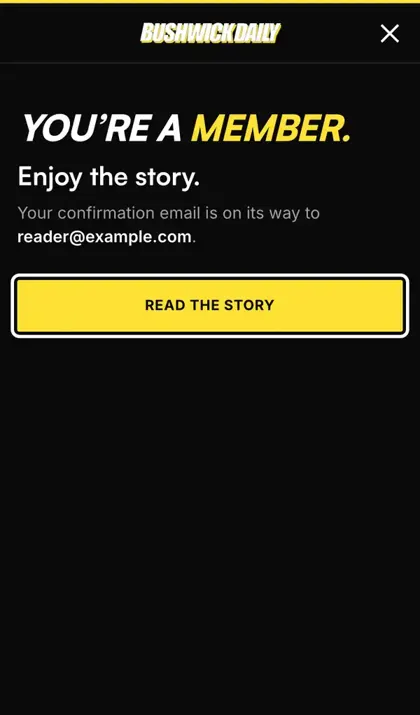
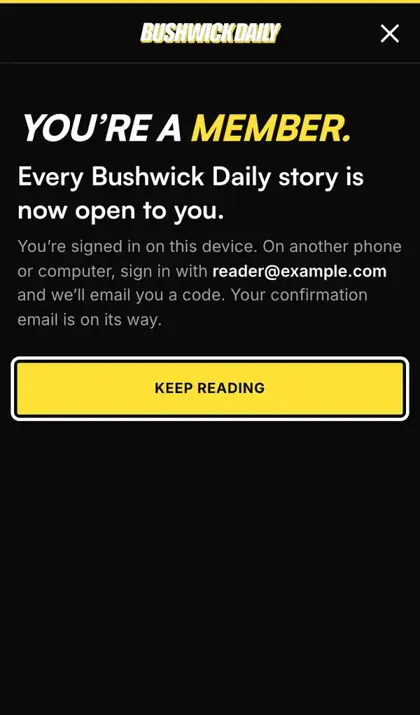
Membership is site access: success screen and titles

Changed region(s): [[0.0, 0.2154, 0.9905, 0.6154]]

diff --git a/design/competitor-comparison.html b/design/competitor-comparison.html
@@ -1,5 +1,5 @@
 <!doctype html><html lang=en><head><meta charset=utf-8><meta name=viewport content="width=device-width,initial-scale=1"><meta name="robots" content="noindex,nofollow"><title>Paywall flow comparison</title>
 <style>:root{--bg:#0a0a0a;--fg:#ededed;--muted:#a3a3a3;--y:#ffe135;--line:#2a2a2a}body{margin:0;background:var(--bg);color:var(--fg);font:16px/1.55 Inter,-apple-system,Helvetica,Arial,sans-serif}main{max-width:1240px;margin:0 auto;padding:24px 16px 64px}h1{font-size:28px;margin:0 0 6px}.lede{color:var(--muted);margin:0 0 28px}.stage{border-top:1px solid var(--line);padding:22px 0}h2{font-size:20px;margin:0 0 14px;color:var(--y)}h3{font-size:13px;letter-spacing:.06em;text-transform:uppercase;color:var(--muted);margin:0 0 10px}.cols{display:grid;grid-template-columns:1fr 1fr 1.1fr;gap:20px}.col figure{margin:0 0 14px}.col img{width:100%;max-width:300px;border:1px solid var(--line);border-radius:6px;display:block}figcaption,.note{font-size:14px;color:var(--muted);margin:6px 0 0;max-width:300px}.bd p{background:#151515;border-left:3px solid var(--y);padding:12px 14px;margin:0;border-radius:4px}.bd b,figcaption b,.note b{color:var(--fg)}a{color:var(--y)}@media(max-width:860px){.cols{grid-template-columns:1fr}.col img{max-width:260px}}</style></head>
-<body><main><h1>Paying for a story: Hell Gate, 404 Media, and what Bushwick Daily will do</h1>
+<body><main><h1>Becoming a member: Hell Gate, 404 Media, and what Bushwick Daily will do</h1>
 <p class=lede>Phone screenshots, 2026-10-13. Hell Gate signed in as a free member (owner’s account); 404 Media with an email that has no account; anonymous captures for everything else. Each caption quotes the screen. Full evidence: research reports 27 and 28 in the repo. The Bushwick Daily column shows the approved design mockups (iPhone 13). They are being built into the site now, for review on a private preview link.</p>
-<section class=stage><h2>1. The gate in the article</h2><div class=cols><div class=col><h3>Hell Gate</h3><figure><a href="img/compare/hg-1-gate.webp"><img loading="lazy" src="img/compare/hg-1-gate.webp" alt=""></a><figcaption>“SUBSCRIBE TO READ THE FULL STORY. Become a paid subscriber to Hell Gate to access all of our posts.” [Subscribe]</figcaption></figure><figure><a href="img/compare/hg-1-gate-outpost.webp"><img loading="lazy" src="img/compare/hg-1-gate-outpost.webp" alt=""></a><figcaption>A separate slide-up covers 71% of the phone screen at the gate, hiding the gate’s own button.</figcaption></figure></div><div class=col><h3>404 Media</h3><figure><a href="img/compare/404-1-gate.webp"><img loading="lazy" src="img/compare/404-1-gate.webp" alt=""></a><figcaption>“This post is for paid members only. Become a paid member for unlimited ad-free access…” [SUBSCRIBE] · “Already have an account? Sign in”. A fixed ad covers the bottom 17%.</figcaption></figure></div><div class='col bd'><h3>Bushwick Daily (proposed)</h3><figure><a href="img/compare/bd-1-gate.webp"><img loading="lazy" src="img/compare/bd-1-gate.webp" alt=""></a><figcaption>On landing: the free opening, then one card: email, newsletter box, Continue. Nothing covers the article.</figcaption></figure><p><b>Keep:</b> the article’s free opening, then one clear box. <b>Fix:</b> one gate only (no slide-up competing with it, no ad over it). Our box asks for the email (plus the newsletter box) and Continue.</p></div></div></section><section class=stage><h2>2. The first tap</h2><div class=cols><div class=col><h3>Hell Gate</h3><figure><a href="img/compare/hg-2-signin-newtab.webp"><img loading="lazy" src="img/compare/hg-2-signin-newtab.webp" alt=""></a><figcaption>Subscribe opens a <b>new tab</b> on a full-screen “Sign in” sheet. Plans need another tap (“Sign up”).</figcaption></figure></div><div class=col><h3>404 Media</h3><figure><a href="img/compare/404-2-membership-page.webp"><img loading="lazy" src="img/compare/404-2-membership-page.webp" alt=""></a><figcaption>SUBSCRIBE <b>leaves the article</b> for a /membership/ page.</figcaption></figure><figure><a href="img/compare/404-2-signin-sheet.webp"><img loading="lazy" src="img/compare/404-2-signin-sheet.webp" alt=""></a><figcaption>“Sign in” opens a full-screen sheet over the article.</figcaption></figure></div><div class='col bd'><h3>Bushwick Daily (proposed)</h3><figure><a href="img/compare/bd-2-code-sheet.webp"><img loading="lazy" src="img/compare/bd-2-code-sheet.webp" alt=""></a><figcaption>After Continue, a member gets the code step, full screen, same tab.</figcaption></figure><figure><a href="img/compare/bd-2-plans-sheet.webp"><img loading="lazy" src="img/compare/bd-2-plans-sheet.webp" alt=""></a><figcaption>Everyone else goes straight to the plans, with Monthly selected.</figcaption></figure><p><b>Keep:</b> a full-screen sheet on the phone. <b>Fix:</b> same tab, same article; the sheet opens directly on the right step (code for members, plans for everyone else).</p></div></div></section><section class=stage><h2>3. Telling a signed-in reader where they stand</h2><div class=cols><div class=col><h3>Hell Gate</h3><figure><a href="img/compare/hg-3-account-free.webp"><img loading="lazy" src="img/compare/hg-3-account-free.webp" alt=""></a><figcaption>“You currently have a free membership, upgrade to a paid subscription for full access.” [View plans]. The owner read “free membership” as “I get some free articles.”</figcaption></figure></div><div class=col><h3>404 Media</h3><figure><a href="img/compare/404-3-check-email-no-account.webp"><img loading="lazy" src="img/compare/404-3-check-email-no-account.webp" alt=""></a><figcaption>For an email with no account: “Now check your email! If you have an account, an email has been sent…”, and no email ever comes.</figcaption></figure></div><div class='col bd'><h3>Bushwick Daily (proposed)</h3><figure><a href="img/compare/bd-3-signed-in-card.webp"><img loading="lazy" src="img/compare/bd-3-signed-in-card.webp" alt=""></a><figcaption>Signed in, no membership: the card says so plainly, with See plans.</figcaption></figure><figure><a href="img/compare/bd-3-signed-in-sheet.webp"><img loading="lazy" src="img/compare/bd-3-signed-in-sheet.webp" alt=""></a><figcaption>See plans opens the sheet with the same message.</figcaption></figure><p><b>Fix both:</b> the sheet says <b>“You’re out of free articles.”</b> “You’re signed in as {email}. A membership unlocks this story and every other one: $6.99 a month or $70 a year.” A new email goes straight to the plans; we never say “check your email” when nothing is coming.</p></div></div></section><section class=stage><h2>4. Choosing a plan</h2><div class=cols><div class=col><h3>Hell Gate</h3><figure><a href="img/compare/hg-4-plans.webp"><img loading="lazy" src="img/compare/hg-4-plans.webp" alt=""></a><figcaption>Full screen: Monthly / “Yearly (save 17%)” switch, three tier cards with benefit lists, one [Choose] each.</figcaption></figure></div><div class=col><h3>404 Media</h3><figure><a href="img/compare/404-4-plans-sheet.webp"><img loading="lazy" src="img/compare/404-4-plans-sheet.webp" alt=""></a><figcaption>Full-screen sheet (from Sign in → Sign up): Name, Email, Monthly / Yearly switch, Free / Supporter / Superfan cards.</figcaption></figure></div><div class='col bd'><h3>Bushwick Daily (proposed)</h3><figure><a href="img/compare/bd-4-plans-yearly.webp"><img loading="lazy" src="img/compare/bd-4-plans-yearly.webp" alt=""></a><figcaption>Shown after the reader taps Yearly (the sheet always opens on Monthly). The chosen option has a yellow outline, so Continue, pinned at the bottom, is the only yellow button. “Save $13.88”, what it includes.</figcaption></figure><p><b>Keep:</b> full screen, the Monthly/Yearly switch, a short list of what you get, one button. <b>Fix:</b> one plan (no tier maze), savings as money (“Yearly saves $13.88”), the price matches the headline. Monthly comes selected (both sites preselect Yearly), and the selected option never looks like the button.</p></div></div></section><section class=stage><h2>5. Paying</h2><div class=cols><div class=col><h3>Hell Gate</h3><figure><a href="img/compare/hg-5-stripe-checkout.webp"><img loading="lazy" src="img/compare/hg-5-stripe-checkout.webp" alt=""></a><figcaption>“Choose” <b>leaves Hell Gate</b> for Stripe’s hosted checkout: Apple Pay, email, card form, Subscribe.</figcaption></figure></div><div class=col><h3>404 Media</h3><p class=note>“SUBSCRIBE NOW” goes straight to Stripe’s hosted checkout with no email step. Stripe’s saved-card feature pre-filled a saved card, so one tap would have charged. (Screenshot withheld: it shows a payment card.)</p></div><div class='col bd'><h3>Bushwick Daily (proposed)</h3><figure><a href="img/compare/bd-5-payment.webp"><img loading="lazy" src="img/compare/bd-5-payment.webp" alt=""></a><figcaption>Payment inside the sheet: the price and the reader’s address at the top, then the consent box with the required disclosure, all of it on the first iPhone 13 screen. Apple Pay is 76 px of scrolling below it (it was 171), or the card form.</figcaption></figure><figure><a href="img/compare/bd-5-success.webp"><img loading="lazy" src="img/compare/bd-5-success.webp" alt=""></a><figcaption>“You’re a member. Enjoy the story.” Read the story closes the sheet; the article unlocks where they were.</figcaption></figure><p><b>Fix:</b> the reader never leaves the article. Payment happens inside the sheet, in this order: price and address, the consent box with the legal disclosure, the black Apple Pay button, “Pay with card”, Subscribe. On success the sheet closes and the story unlocks where they were.</p></div></div></section><section class=stage><h2>6. Getting out</h2><div class=cols><div class=col><h3>Hell Gate</h3><p class=note>Phone: only the X closes it. Escape does nothing on the phone, and the phone’s Back button never closes the sheet (it does nothing in the new tab, or leaves the article). Desktop: Escape works.</p></div><div class=col><h3>404 Media</h3><p class=note>Same as Hell Gate (same Ghost Portal 2.72.3). Back from the Sign in sheet <b>left the article</b>.</p></div><div class='col bd'><h3>Bushwick Daily (proposed)</h3><p><b>Fix:</b> X, Escape (phone and desktop) and the phone’s Back button all close the sheet and return to the same spot in the article. The page behind can’t scroll while the sheet is open (both sites do this; we keep it).</p></div></div></section></main></body></html>
+<section class=stage><h2>1. The gate in the article</h2><div class=cols><div class=col><h3>Hell Gate</h3><figure><a href="img/compare/hg-1-gate.webp"><img loading="lazy" src="img/compare/hg-1-gate.webp" alt=""></a><figcaption>“SUBSCRIBE TO READ THE FULL STORY. Become a paid subscriber to Hell Gate to access all of our posts.” [Subscribe]</figcaption></figure><figure><a href="img/compare/hg-1-gate-outpost.webp"><img loading="lazy" src="img/compare/hg-1-gate-outpost.webp" alt=""></a><figcaption>A separate slide-up covers 71% of the phone screen at the gate, hiding the gate’s own button.</figcaption></figure></div><div class=col><h3>404 Media</h3><figure><a href="img/compare/404-1-gate.webp"><img loading="lazy" src="img/compare/404-1-gate.webp" alt=""></a><figcaption>“This post is for paid members only. Become a paid member for unlimited ad-free access…” [SUBSCRIBE] · “Already have an account? Sign in”. A fixed ad covers the bottom 17%.</figcaption></figure></div><div class='col bd'><h3>Bushwick Daily (proposed)</h3><figure><a href="img/compare/bd-1-gate.webp"><img loading="lazy" src="img/compare/bd-1-gate.webp" alt=""></a><figcaption>On landing: the free opening, then one card: email, newsletter box, Continue. Nothing covers the article.</figcaption></figure><p><b>Keep:</b> the article’s free opening, then one clear box. <b>Fix:</b> one gate only (no slide-up competing with it, no ad over it). Our box asks for the email (plus the newsletter box) and Continue.</p></div></div></section><section class=stage><h2>2. The first tap</h2><div class=cols><div class=col><h3>Hell Gate</h3><figure><a href="img/compare/hg-2-signin-newtab.webp"><img loading="lazy" src="img/compare/hg-2-signin-newtab.webp" alt=""></a><figcaption>Subscribe opens a <b>new tab</b> on a full-screen “Sign in” sheet. Plans need another tap (“Sign up”).</figcaption></figure></div><div class=col><h3>404 Media</h3><figure><a href="img/compare/404-2-membership-page.webp"><img loading="lazy" src="img/compare/404-2-membership-page.webp" alt=""></a><figcaption>SUBSCRIBE <b>leaves the article</b> for a /membership/ page.</figcaption></figure><figure><a href="img/compare/404-2-signin-sheet.webp"><img loading="lazy" src="img/compare/404-2-signin-sheet.webp" alt=""></a><figcaption>“Sign in” opens a full-screen sheet over the article.</figcaption></figure></div><div class='col bd'><h3>Bushwick Daily (proposed)</h3><figure><a href="img/compare/bd-2-code-sheet.webp"><img loading="lazy" src="img/compare/bd-2-code-sheet.webp" alt=""></a><figcaption>After Continue, a member gets the code step, full screen, same tab.</figcaption></figure><figure><a href="img/compare/bd-2-plans-sheet.webp"><img loading="lazy" src="img/compare/bd-2-plans-sheet.webp" alt=""></a><figcaption>Everyone else goes straight to the plans, with Monthly selected.</figcaption></figure><p><b>Keep:</b> a full-screen sheet on the phone. <b>Fix:</b> same tab, same article; the sheet opens directly on the right step (code for members, plans for everyone else).</p></div></div></section><section class=stage><h2>3. Telling a signed-in reader where they stand</h2><div class=cols><div class=col><h3>Hell Gate</h3><figure><a href="img/compare/hg-3-account-free.webp"><img loading="lazy" src="img/compare/hg-3-account-free.webp" alt=""></a><figcaption>“You currently have a free membership, upgrade to a paid subscription for full access.” [View plans]. The owner read “free membership” as “I get some free articles.”</figcaption></figure></div><div class=col><h3>404 Media</h3><figure><a href="img/compare/404-3-check-email-no-account.webp"><img loading="lazy" src="img/compare/404-3-check-email-no-account.webp" alt=""></a><figcaption>For an email with no account: “Now check your email! If you have an account, an email has been sent…”, and no email ever comes.</figcaption></figure></div><div class='col bd'><h3>Bushwick Daily (proposed)</h3><figure><a href="img/compare/bd-3-signed-in-card.webp"><img loading="lazy" src="img/compare/bd-3-signed-in-card.webp" alt=""></a><figcaption>Signed in, no membership: the card says so plainly, with See plans.</figcaption></figure><figure><a href="img/compare/bd-3-signed-in-sheet.webp"><img loading="lazy" src="img/compare/bd-3-signed-in-sheet.webp" alt=""></a><figcaption>See plans opens the sheet with the same message.</figcaption></figure><p><b>Fix both:</b> the sheet says <b>“You’re out of free articles.”</b> “You’re signed in as {email}. A membership unlocks this story and every other one: $6.99 a month or $70 a year.” A new email goes straight to the plans; we never say “check your email” when nothing is coming.</p></div></div></section><section class=stage><h2>4. Choosing a plan</h2><div class=cols><div class=col><h3>Hell Gate</h3><figure><a href="img/compare/hg-4-plans.webp"><img loading="lazy" src="img/compare/hg-4-plans.webp" alt=""></a><figcaption>Full screen: Monthly / “Yearly (save 17%)” switch, three tier cards with benefit lists, one [Choose] each.</figcaption></figure></div><div class=col><h3>404 Media</h3><figure><a href="img/compare/404-4-plans-sheet.webp"><img loading="lazy" src="img/compare/404-4-plans-sheet.webp" alt=""></a><figcaption>Full-screen sheet (from Sign in → Sign up): Name, Email, Monthly / Yearly switch, Free / Supporter / Superfan cards.</figcaption></figure></div><div class='col bd'><h3>Bushwick Daily (proposed)</h3><figure><a href="img/compare/bd-4-plans-yearly.webp"><img loading="lazy" src="img/compare/bd-4-plans-yearly.webp" alt=""></a><figcaption>Shown after the reader taps Yearly (the sheet always opens on Monthly). The chosen option has a yellow outline, so Continue, pinned at the bottom, is the only yellow button. “Save $13.88”, what it includes.</figcaption></figure><p><b>Keep:</b> full screen, the Monthly/Yearly switch, a short list of what you get, one button. <b>Fix:</b> one plan (no tier maze), savings as money (“Yearly saves $13.88”), the price matches the headline. Monthly comes selected (both sites preselect Yearly), and the selected option never looks like the button.</p></div></div></section><section class=stage><h2>5. Paying</h2><div class=cols><div class=col><h3>Hell Gate</h3><figure><a href="img/compare/hg-5-stripe-checkout.webp"><img loading="lazy" src="img/compare/hg-5-stripe-checkout.webp" alt=""></a><figcaption>“Choose” <b>leaves Hell Gate</b> for Stripe’s hosted checkout: Apple Pay, email, card form, Subscribe.</figcaption></figure></div><div class=col><h3>404 Media</h3><p class=note>“SUBSCRIBE NOW” goes straight to Stripe’s hosted checkout with no email step. Stripe’s saved-card feature pre-filled a saved card, so one tap would have charged. (Screenshot withheld: it shows a payment card.)</p></div><div class='col bd'><h3>Bushwick Daily (proposed)</h3><figure><a href="img/compare/bd-5-payment.webp"><img loading="lazy" src="img/compare/bd-5-payment.webp" alt=""></a><figcaption>Payment inside the sheet: the price and the reader’s address at the top, then the consent box with the required disclosure, all of it on the first iPhone 13 screen. Apple Pay is 76 px of scrolling below it (it was 171), or the card form.</figcaption></figure><figure><a href="img/compare/bd-5-success.webp"><img loading="lazy" src="img/compare/bd-5-success.webp" alt=""></a><figcaption>“You’re a member. Every Bushwick Daily story is now open to you.” One payment covers the whole site; the reader stays signed in on that device (180 days) and signs in once with an emailed code on any other device. Keep reading closes the sheet; the article unlocks where they were.</figcaption></figure><p><b>Fix:</b> the reader never leaves the article. Payment happens inside the sheet, in this order: price and address, the consent box with the legal disclosure, the black Apple Pay button, “Pay with card”, Subscribe. On success the sheet closes and the story unlocks where they were. One payment opens every story on the site, not just this one.</p></div></div></section><section class=stage><h2>6. Getting out</h2><div class=cols><div class=col><h3>Hell Gate</h3><p class=note>Phone: only the X closes it. Escape does nothing on the phone, and the phone’s Back button never closes the sheet (it does nothing in the new tab, or leaves the article). Desktop: Escape works.</p></div><div class=col><h3>404 Media</h3><p class=note>Same as Hell Gate (same Ghost Portal 2.72.3). Back from the Sign in sheet <b>left the article</b>.</p></div><div class='col bd'><h3>Bushwick Daily (proposed)</h3><p><b>Fix:</b> X, Escape (phone and desktop) and the phone’s Back button all close the sheet and return to the same spot in the article. The page behind can’t scroll while the sheet is open (both sites do this; we keep it).</p></div></div></section></main></body></html>

diff --git a/design/flow.html b/design/flow.html
@@ -16,7 +16,7 @@ h4:first-of-type{margin-top:0}.copy{margin:0;padding:10px 12px;background:var(--
 th,td{border:1px solid var(--line);padding:6px 8px;text-align:left;vertical-align:top}.tablewrap{overflow-x:auto;max-width:100%}th{color:var(--muted);font-weight:600}
 @media(max-width:1000px){.step{grid-template-columns:minmax(0,300px) minmax(0,260px)}.step .text{grid-column:1/-1}}
 @media(max-width:620px){.step{grid-template-columns:minmax(0,1fr)}table{font-size:13px}th,td{padding:5px 6px}.step figure.desk{max-width:260px}}</style></head><body><main>
-<h1>Paying for a story at Bushwick Daily: the whole flow</h1>
+<h1>Becoming a Bushwick Daily member: the whole flow</h1>
 <p class=lede>Design v2.1 mockups, 2026-10-13: phone (iPhone 13) first, then desktop (1440). Under each step: the words on screen, extracted from the mockup; what the reader can do and where it leads; how to leave. Nothing here is live; card forms are Stripe test mode. Spec: PROPOSAL.md V2 and V2.1; text twin: FLOW.md.</p>
 <p class=map><a href="#A1">Gate</a> <span class=sep>→</span> <a href="#A2">Email</a> <span class=sep>→</span> <a href="#B2">Code</a> <span class=sep>|</span> <a href="#A3">Plans</a> <span class=sep>→</span> <a href="#A4">Payment</a> <span class=sep>→</span> <a href="#A7">Success</a> <span class=sep>→</span> <a href="#A8">Story</a></p>
 <p class=lede>A member gets the code; everyone else gets the plans. The sheet opens only after the reader acts, always on Monthly.</p>
@@ -97,9 +97,9 @@ th,td{border:1px solid var(--line);padding:6px 8px;text-align:left;vertical-alig
 <figure class=phone><a href="img/sheet-success-proposed-iphone13.webp"><img loading=lazy src="img/sheet-success-proposed-iphone13.webp" alt="Success, iPhone 13, 390×664"></a><figcaption>iPhone 13, 390×664</figcaption></figure>
 <figure class=desk><a href="img/sheet-success-proposed-desktop.webp"><img loading=lazy src="img/sheet-success-proposed-desktop.webp" alt="Success, Desktop, 1440×900"></a><figcaption>Desktop, 1440×900</figcaption></figure>
 <div class=text><h3><span class=id>A7</span>Success</h3>
-<h4>On screen (verbatim)</h4><div class=copy><p>You’re a member.</p><p>Enjoy the story.</p><p>Your confirmation email is on its way to reader@example.com.</p><p>Read the story</p></div>
-<h4>What the reader can do → where it leads</h4><ul><li><b>“Read the story”</b> → <a href="#A8">A8 The story, unlocked in place</a></li><li><b>Do nothing for 2 seconds</b> → the sheet closes by itself: <a href="#A8">A8 The story, unlocked in place</a></li></ul>
-<h4>How to leave</h4><p class=leave>X, Escape or Back do what “Read the story” does: <a href="#A8">A8 The story, unlocked in place</a> (v2.1; in v2 an X here left the story locked).</p>
+<h4>On screen (verbatim)</h4><div class=copy><p>You’re a member.</p><p>Every Bushwick Daily story is now open to you.</p><p>You’re signed in on this device. On another phone or computer, sign in with reader@example.com and we’ll email you a code. Your confirmation email is on its way.</p><p>Keep reading</p></div>
+<h4>What the reader can do → where it leads</h4><ul><li><b>“Keep reading”</b> → <a href="#A8">A8 The story, unlocked in place</a></li></ul>
+<h4>How to leave</h4><p class=leave>X, Escape or Back do what “Keep reading” does: <a href="#A8">A8 The story, unlocked in place</a> (v2.1; in v2 an X here left the story locked).</p>
 </div></div>
 <div class="step" id="A8">
 <figure class=phone><a href="img/gate-unlocked-proposed-iphone13.webp"><img loading=lazy src="img/gate-unlocked-proposed-iphone13.webp" alt="The story, unlocked in place, iPhone 13, 390×664"></a><figcaption>iPhone 13, 390×664</figcaption></figure>
@@ -243,7 +243,7 @@ th,td{border:1px solid var(--line);padding:6px 8px;text-align:left;vertical-alig
 <section class=path id="path-E"><h2>E. Exits and returns</h2><p>Closing the sheet at every step, and coming back.</p>
 <div class="step noimg" id="E1">
 <div class=text><h3><span class=id>E1</span>Every exit, every step</h3>
-<div class=tablewrap><table><tr><th>Step</th><th>X</th><th>Escape</th><th>Phone / browser Back</th><th>“← Back” (top left)</th></tr><tr><td>Code (B2)</td><td>closes → card</td><td>closes → card</td><td>closes → card</td><td>not shown</td></tr><tr><td>Plans (A3, C2)</td><td>closes → card</td><td>closes → card</td><td>closes → card</td><td>not shown</td></tr><tr><td>Sign in (B4)</td><td>closes → card</td><td>closes → card</td><td>closes → card</td><td>→ plans</td></tr><tr><td>Payment (A4, A5, D4-D7)</td><td>closes → card</td><td>closes → card</td><td>closes → card</td><td>→ plans (so does “Change”)</td></tr><tr><td>Terms (A5b)</td><td>closes → card</td><td>closes → card</td><td>closes → card</td><td>→ payment</td></tr><tr><td>Processing (A6)</td><td>waits (dimmed)</td><td>waits</td><td>closes; payment continues (E3)</td><td>waits (dimmed)</td></tr><tr><td>Success (A7)</td><td>= Read the story</td><td>= Read the story</td><td>= Read the story</td><td>not shown</td></tr></table></div><p class=note>“→ card”: the sheet closes, the card is where the reader left it, focus returns to the control that opened the sheet, the page has not moved (verify_sheet.py, three browser set-ups).</p></div></div>
+<div class=tablewrap><table><tr><th>Step</th><th>X</th><th>Escape</th><th>Phone / browser Back</th><th>“← Back” (top left)</th></tr><tr><td>Code (B2)</td><td>closes → card</td><td>closes → card</td><td>closes → card</td><td>not shown</td></tr><tr><td>Plans (A3, C2)</td><td>closes → card</td><td>closes → card</td><td>closes → card</td><td>not shown</td></tr><tr><td>Sign in (B4)</td><td>closes → card</td><td>closes → card</td><td>closes → card</td><td>→ plans</td></tr><tr><td>Payment (A4, A5, D4-D7)</td><td>closes → card</td><td>closes → card</td><td>closes → card</td><td>→ plans (so does “Change”)</td></tr><tr><td>Terms (A5b)</td><td>closes → card</td><td>closes → card</td><td>closes → card</td><td>→ payment</td></tr><tr><td>Processing (A6)</td><td>waits (dimmed)</td><td>waits</td><td>closes; payment continues (E3)</td><td>waits (dimmed)</td></tr><tr><td>Success (A7)</td><td>= Keep reading</td><td>= Keep reading</td><td>= Keep reading</td><td>not shown</td></tr></table></div><p class=note>“→ card”: the sheet closes, the card is where the reader left it, focus returns to the control that opened the sheet, the page has not moved (verify_sheet.py, three browser set-ups).</p></div></div>
 <div class="step" id="E2">
 <figure class=phone><a href="img/gate-returned-proposed-iphone13.webp"><img loading=lazy src="img/gate-returned-proposed-iphone13.webp" alt="The card after the sheet closes, iPhone 13, 390×664"></a><figcaption>iPhone 13, 390×664</figcaption></figure>
 <figure class=desk><a href="img/gate-returned-proposed-desktop.webp"><img loading=lazy src="img/gate-returned-proposed-desktop.webp" alt="The card after the sheet closes, Desktop, 1440×900"></a><figcaption>Desktop, 1440×900</figcaption></figure>
@@ -258,7 +258,7 @@ th,td{border:1px solid var(--line);padding:6px 8px;text-align:left;vertical-alig
 </div></div>
 <div class="step noimg" id="E4">
 <div class=text><h3><span class=id>E4</span>Closing the success screen</h3>
-<h4>What the reader can do → where it leads</h4><ul><li><b>X, Escape, Back, “Read the story”, or 2 seconds</b> → <a href="#A8">A8 The story, unlocked in place</a>: the story unlocked, focus in the story, the page where it was (v2.1; checked by verify_sheet.py)</li></ul>
+<h4>What the reader can do → where it leads</h4><ul><li><b>X, Escape, Back or “Keep reading”</b> → <a href="#A8">A8 The story, unlocked in place</a>: the story unlocked, focus in the story, the page where it was (v2.1; checked by verify_sheet.py)</li></ul>
 </div></div>
 <div class="step noimg" id="E5">
 <div class=text><h3><span class=id>E5</span>“Use a different email” (code step)</h3>

diff --git a/design/mockups/gate-proposed-no-debt-fix.html b/design/mockups/gate-proposed-no-debt-fix.html
@@ -2354,10 +2354,10 @@ img:is([sizes=auto i],[sizes^="auto," i]){contain-intrinsic-size:3000px 1500px}
 <section class="bd-sheet__step bd-sheet__step--done" data-bd-sheet-step="success" hidden="">
 <div role="status">
 <h2 class="bd-sheet__title" data-bd-sheet-heading="" id="bd-sheet-success-title" tabindex="-1">You’re a <em>member.</em></h2>
-<p class="bd-sheet__lede bd-sheet__lede--big">Enjoy the story.</p>
-<p class="bd-sheet__receipt">Your confirmation email is on its way to <strong data-bd-step-email=""></strong>.</p>
+<p class="bd-sheet__lede bd-sheet__lede--big">Every Bushwick Daily story is now open to you.</p>
+<p class="bd-sheet__receipt">You’re signed in on this device. On another phone or computer, sign in with <strong data-bd-step-email=""></strong> and we’ll email you a code. Your confirmation email is on its way.</p>
 </div>
-<button class="bd-btn bd-btn--primary" data-bd-sheet-done="" data-bd-sheet-focus="" type="button">Read the story</button>
+<button class="bd-btn bd-btn--primary" data-bd-sheet-done="" data-bd-sheet-focus="" type="button">Keep reading</button>
 </section>
 <p class="bd-gate__note" id="bd-gate-newsletter-note" role="status"></p>
 </div>

diff --git a/design/mockups/gate-proposed.html b/design/mockups/gate-proposed.html
@@ -2354,10 +2354,10 @@ img:is([sizes=auto i],[sizes^="auto," i]){contain-intrinsic-size:3000px 1500px}
 <section class="bd-sheet__step bd-sheet__step--done" data-bd-sheet-step="success" hidden="">
 <div role="status">
 <h2 class="bd-sheet__title" data-bd-sheet-heading="" id="bd-sheet-success-title" tabindex="-1">You’re a <em>member.</em></h2>
-<p class="bd-sheet__lede bd-sheet__lede--big">Enjoy the story.</p>
-<p class="bd-sheet__receipt">Your confirmation email is on its way to <strong data-bd-step-email=""></strong>.</p>
+<p class="bd-sheet__lede bd-sheet__lede--big">Every Bushwick Daily story is now open to you.</p>
+<p class="bd-sheet__receipt">You’re signed in on this device. On another phone or computer, sign in with <strong data-bd-step-email=""></strong> and we’ll email you a code. Your confirmation email is on its way.</p>
 </div>
-<button class="bd-btn bd-btn--primary" data-bd-sheet-done="" data-bd-sheet-focus="" type="button">Read the story</button>
+<button class="bd-btn bd-btn--primary" data-bd-sheet-done="" data-bd-sheet-focus="" type="button">Keep reading</button>
 </section>
 <p class="bd-gate__note" id="bd-gate-newsletter-note" role="status"></p>
 </div>

diff --git a/design/mockups/sheet.js b/design/mockups/sheet.js
@@ -410,10 +410,10 @@
 
   function success(autoClose) {
     sheet.show('success');
-    if (!autoClose) return;
-    // V2-1: the success screen stays up for 2 s, then the sheet closes by itself; "Read the story" closes it sooner.
-    window.clearTimeout(doneTimer);
-    doneTimer = window.setTimeout(function () { finish(); }, 2000);
+    // v2.2 (owner, 2026-10-13: "this isn't a rate per article this is access to the site"): no auto-close. The success
+    // screen says the whole site is open and how sign-in works on other devices; the reader closes it ("Keep reading",
+    // X, Escape or Back all unlock the story in place).
+    void autoClose;
   }
   function finish() {
     window.clearTimeout(doneTimer);
